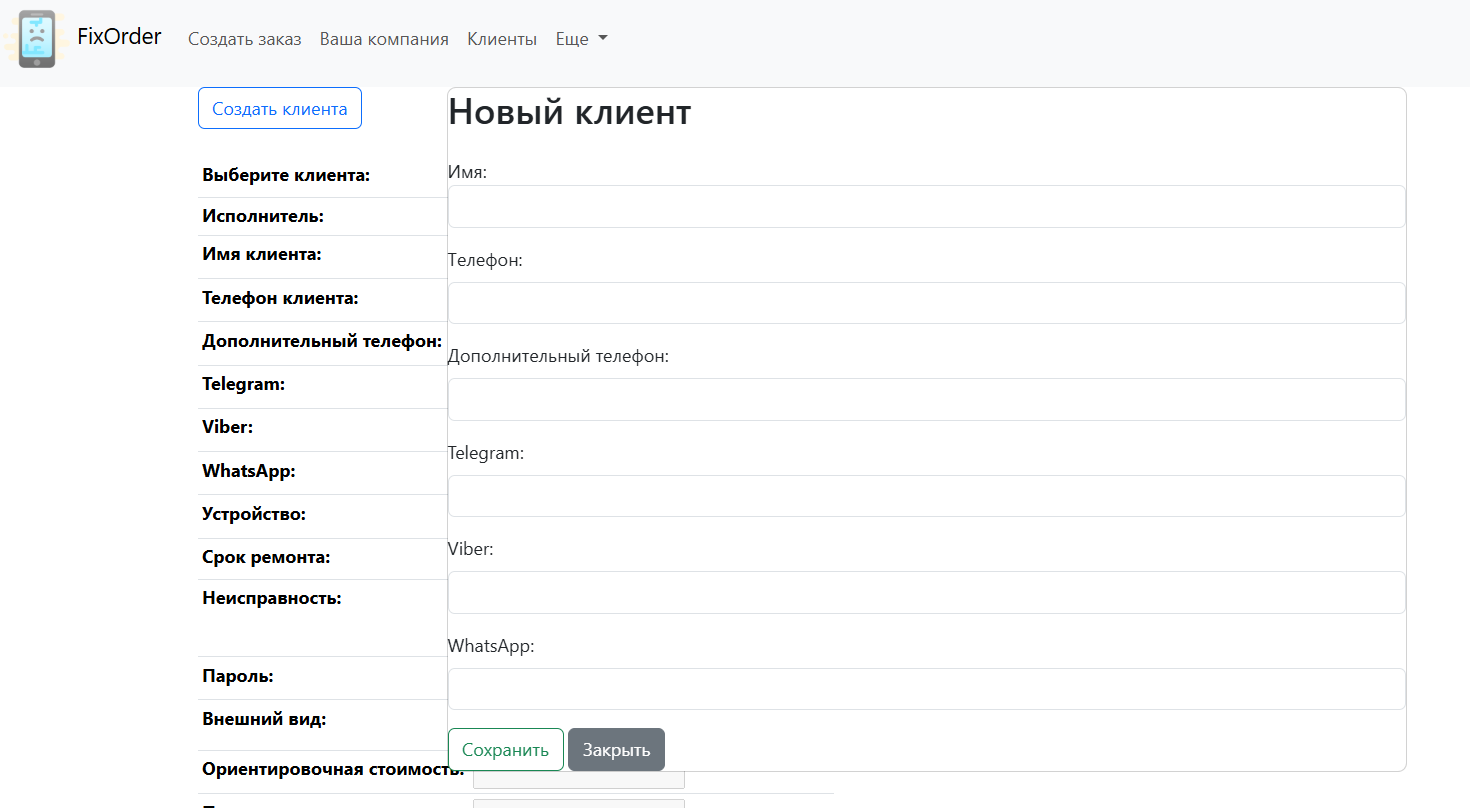
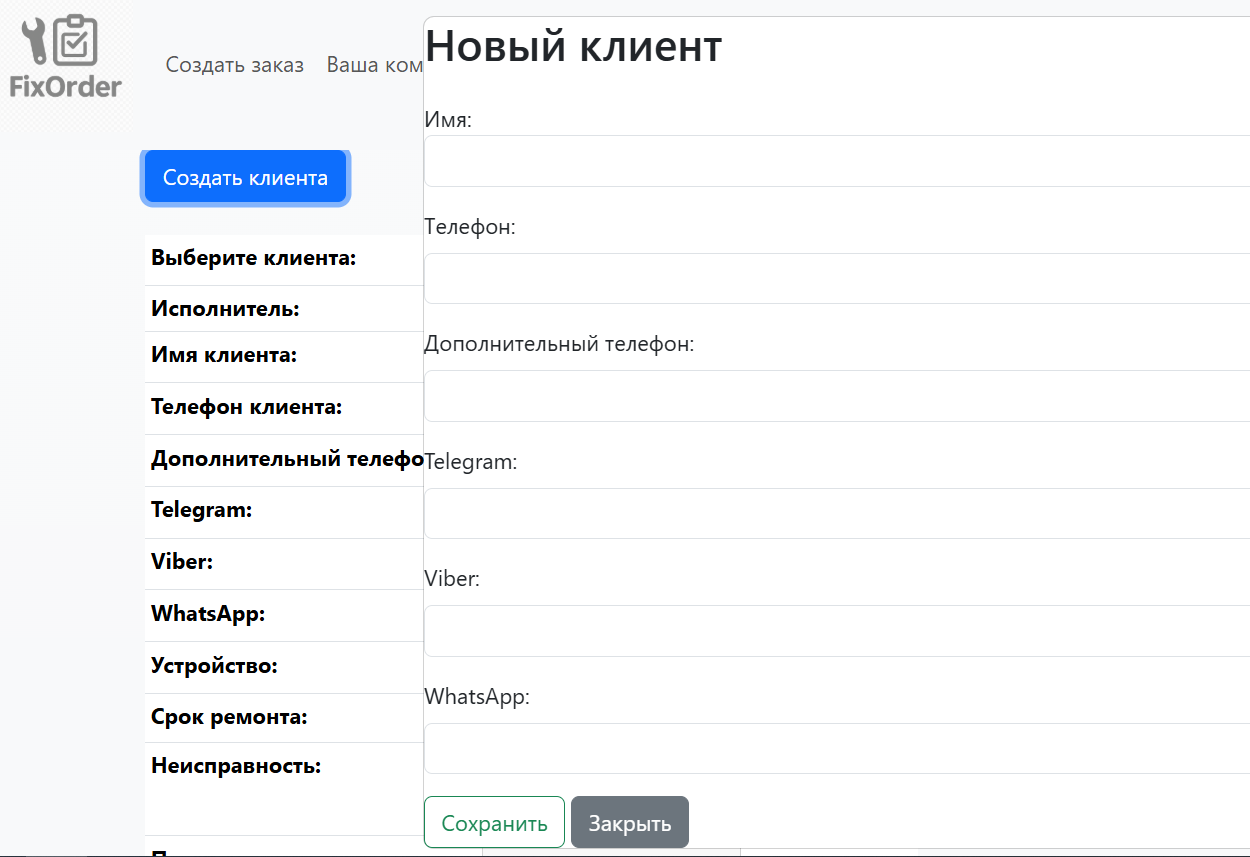
изменил дизайн

diff --git a/fixorder/templates/fixorder/orderlist.html b/fixorder/templates/fixorder/orderlist.html
@@ -8,30 +8,82 @@
 {% include 'fixorder/search_with_checkbox.html' %}
 <!--поиск -->
 
-<ul>
+<!--<ul>-->
      <hr>
-	{% for myo in my_orders %}
-    		<li><div>
-	<p>Статус: {% if myo.status.status == "Активен" %}<span class="text-primary"> {{myo.status}}</span>
-         {% elif myo.status.status == "Готов" %}<span class="text-success"> {{myo.status}}</span>
-        {% elif myo.status.status == "Выдан без ремонта" %}<span class="text-secondary"> {{myo.status}}</span>
-        {% elif myo.status.status == "Выдан" %}<span class="text-secondary"> {{myo.status}}</span> {% endif %}
 
-                | Устройство: {{myo.device}} | {{myo.defect}} | клиент: {{myo.order_client}} | {{myo.client_phone}}
-        {% if myo.initial_price %}
-                   | {{myo.initial_price}}
-				{% endif %}</p>
 
-	<p>Дата поступления заказа: {{myo.time_create|date:"d-m-Y"}} | Готовность до: {{myo.time_demand|date:"d-m-Y"}}</p>
 
-<p>
-<a href="{{ myo.get_absolute_url }}" class="btn btn-outline-primary">Смотреть/обработать заказ</a>
-<a href="{{ myo.get_warrantydoc_url }}" class="btn btn-outline-success">Посмотреть/распечатать гарантийку</a>
-<a href="{{ myo.get_commingdoc_url }}" class="btn btn-outline-primary">Посмотреть/распечатать приемный лист</a>
-    <a href="{{ myo.get_delete_url }}" class="btn btn-outline-danger">Удалить заказ</a>
-</p>
-    </div></li>
- <hr>
-	{% endfor %}
-</ul>
+    <table class="table table-hover">
+  <thead>
+    <tr>
+
+        <th scope="col">Редактировать</th>
+
+      <th scope="col">Статус</th>
+      <th scope="col">Устройство</th>
+      <th scope="col">Неисправность</th>
+      <th scope="col">Клиент</th>
+      <th scope="col">Дата поступления</th>
+        <th scope="col">Выполнить до:</th>
+        <th scope="col">Приёмный лист</th>
+        <th scope="col">Гарантийный талон</th>
+        <th scope="col">Удалить</th>
+    </tr>
+  </thead>
+  <tbody>
+  {% for myo in my_orders %}
+    {% if myo.status.status == "Активен" %}
+        <tr class="table-active">
+    {% elif myo.status.status == "Готов" %}
+       <tr class="table-info">
+      {% elif myo.status.status == "Выдан без ремонта" %}
+       <tr class="table-warning">
+      {% elif myo.status.status == "Выдан" %}
+       <tr class="table-warning">
+
+  {% endif %}
+
+
+
+
+      <td><a href="{{ myo.get_absolute_url }}" class="btn btn-outline-primary">Изменить</a></td>
+  <td>{{myo.status}}</td>
+      <td>{{myo.device}}</td>
+      <td>{{myo.defect}}</td>
+      <td>{{myo.order_client}}</td>
+      <td>{{myo.time_create|date:"d-m-Y"}}</td>
+      <td>{{myo.time_demand|date:"d-m-Y"}}</td>
+      <td><a href="{{ myo.get_commingdoc_url }}" class="btn btn-outline-primary">Приемная квитанция</a></td>
+      <td><a href="{{ myo.get_warrantydoc_url }}" class="btn btn-outline-success">Гарантийный талон</a></td>
+      <td> <a href="{{ myo.get_delete_url }}" class="btn btn-outline-danger">Удалить</a></td>
+  </tr>
+  {% endfor %}
+
+  </tbody>
+</table>
+
+<!--	{% for myo in my_orders %}-->
+<!--    		<li><div>-->
+<!--	<p>Статус: {% if myo.status.status == "Активен" %}<span class="text-primary"> {{myo.status}}</span>-->
+<!--         {% elif myo.status.status == "Готов" %}<span class="text-success"> {{myo.status}}</span>-->
+<!--        {% elif myo.status.status == "Выдан без ремонта" %}<span class="text-secondary"> {{myo.status}}</span>-->
+<!--        {% elif myo.status.status == "Выдан" %}<span class="text-secondary"> {{myo.status}}</span> {% endif %}-->
+
+<!--                | Устройство: {{myo.device}} | {{myo.defect}} | клиент: {{myo.order_client}} | {{myo.client_phone}}-->
+<!--        {% if myo.initial_price %}-->
+<!--                   | {{myo.initial_price}}-->
+<!--				{% endif %}</p>-->
+
+<!--	<p>Дата поступления заказа: {{myo.time_create|date:"d-m-Y"}} | Готовность до: {{myo.time_demand|date:"d-m-Y"}}</p>-->
+
+<!--<p>-->
+<!--<a href="{{ myo.get_absolute_url }}" class="btn btn-outline-primary">Смотреть/обработать заказ</a>-->
+<!--<a href="{{ myo.get_warrantydoc_url }}" class="btn btn-outline-success">Посмотреть/распечатать гарантийку</a>-->
+<!--<a href="{{ myo.get_commingdoc_url }}" class="btn btn-outline-primary">Посмотреть/распечатать приемный лист</a>-->
+<!--    <a href="{{ myo.get_delete_url }}" class="btn btn-outline-danger">Удалить заказ</a>-->
+<!--</p>-->
+<!--    </div></li>-->
+<!-- <hr>-->
+<!--	{% endfor %}-->
+<!--</ul>-->
 {% endblock %}

diff --git a/fixorder/templates/fixorder/base.html b/fixorder/templates/fixorder/base.html
@@ -24,11 +24,12 @@
             </div>
         </div>
 </div>
-<div id="content">
+<div id="content" class="bg-light bg-gradient">
     <header class="header sticky-top d-flex align-items-center">
         <div class="container-fluid text-center">
             <div class="row">
                 <div class="col-12">
+
                 {% include 'fixorder/navbar.html'%}
                 </div>
             </div>
@@ -39,6 +40,7 @@
     <div class="container">
         <div class="row">
             <div class="col-12">
+
                 {% block content %}{% endblock content %}
             </div>
         </div>

diff --git a/fixorder/templates/fixorder/navbar.html b/fixorder/templates/fixorder/navbar.html
@@ -10,8 +10,7 @@
 <nav class="navbar navbar-expand-lg bg-body-tertiary">
   <div class="container-fluid">
     <a class="navbar-brand" href="/">
-      <img src="/static/img/br_phone.png" alt="" height="60">
-      FixOrder
+      <img src="/static/img/br_phone.png" alt="" height="100">
     </a>
     <button class="navbar-toggler" type="button" data-bs-toggle="collapse" data-bs-target="#navbarSupportedContent" aria-controls="navbarSupportedContent" aria-expanded="false" aria-label="Toggle navigation">
       <span class="navbar-toggler-icon"></span>
